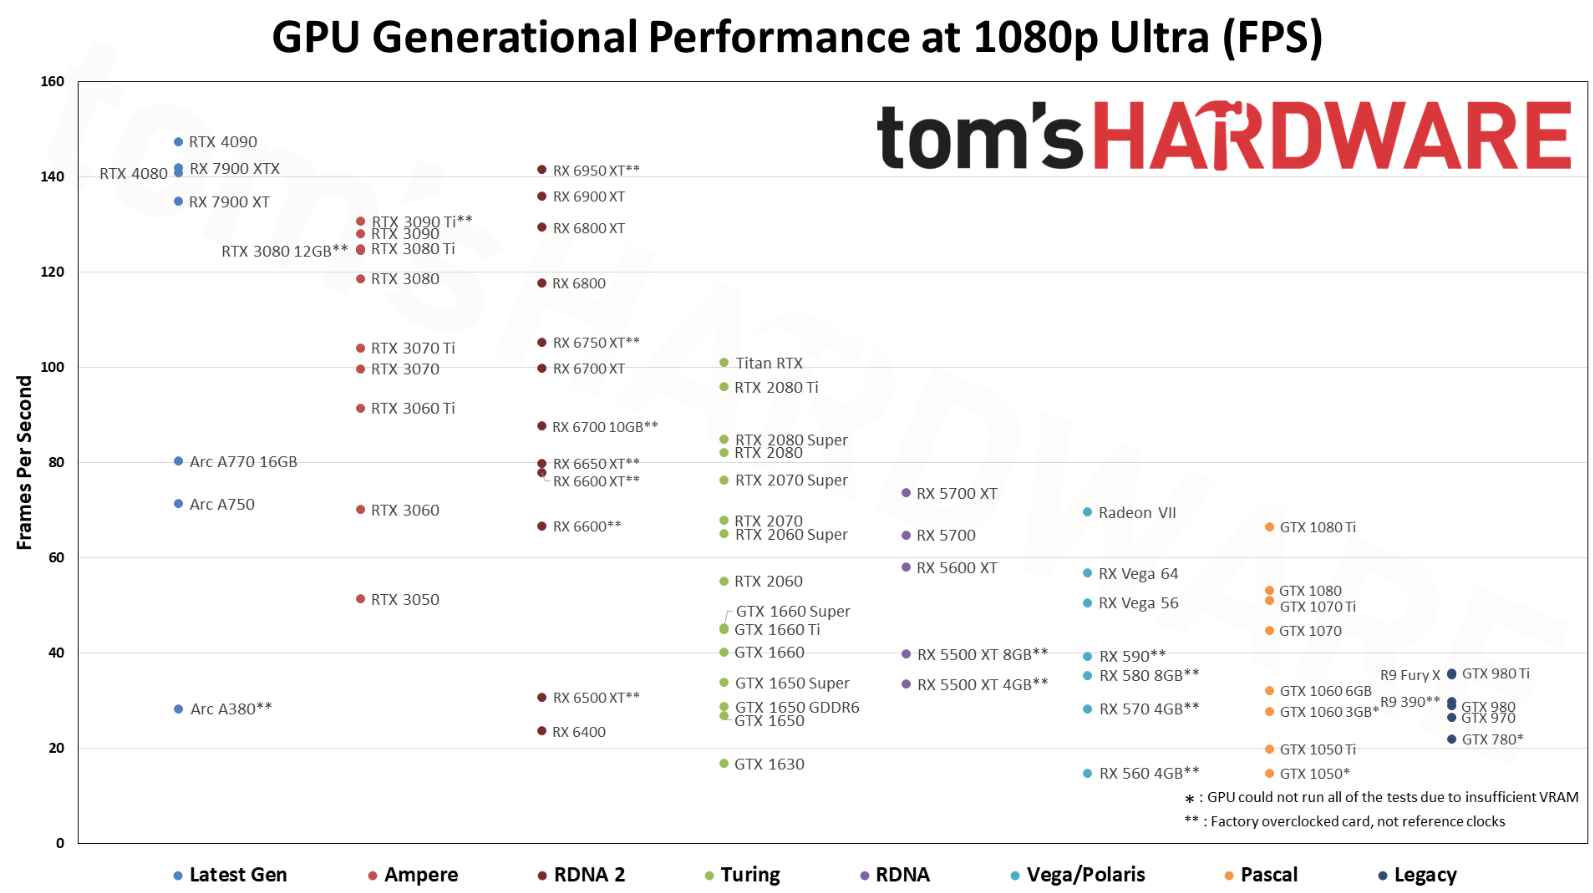
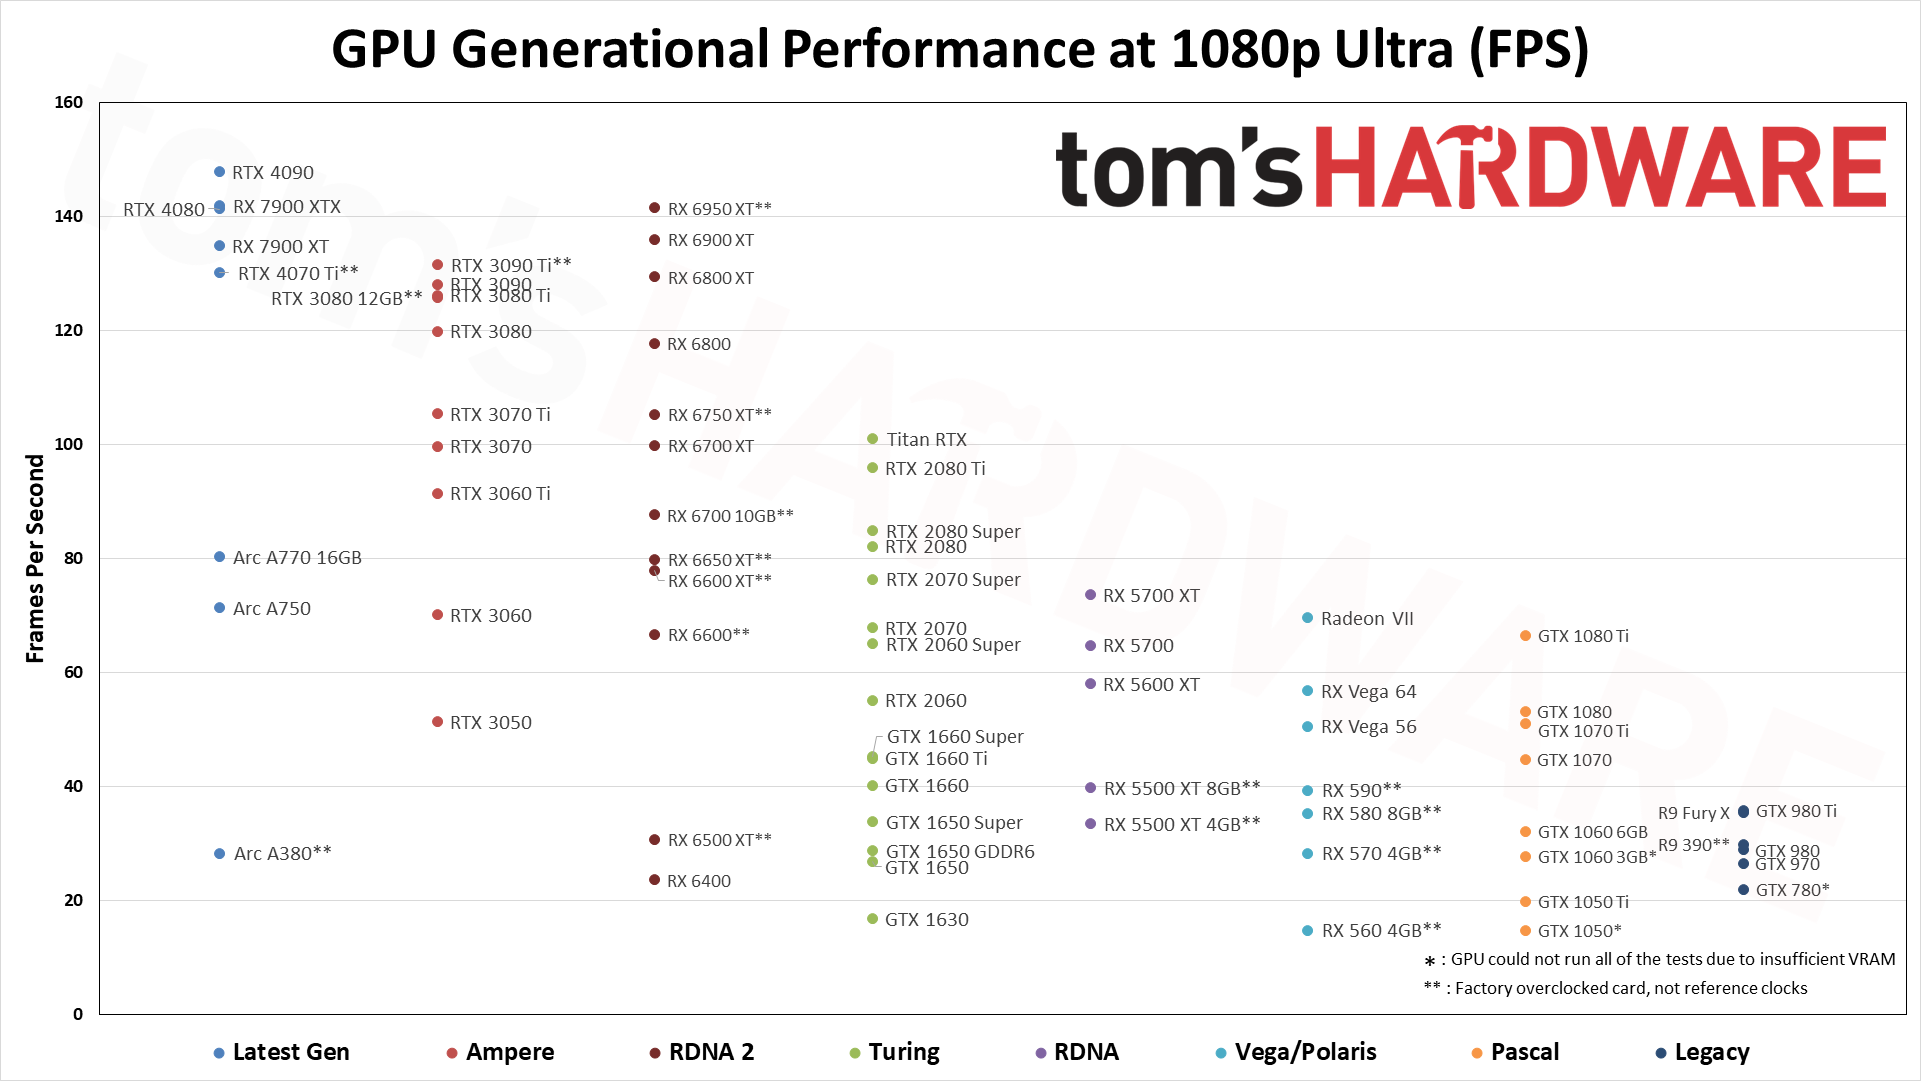
Update graphs, Add 4070Ti
Updated the graphs to the 1920x1080 source quality that Tom'sHardware provides, and added 4070Ti to GPUs.json

diff --git a/Main.py b/Main.py
@@ -4,7 +4,7 @@ from GPUs import LoadGPUs
 
 gpus = LoadGPUs()
 
-priceFont = ImageFont.truetype("segoeui.ttf", 16)
+priceFont = ImageFont.truetype("segoeui.ttf", 18)
 titleFont = ImageFont.truetype("segoeuib.ttf", 48)
 
 def GenerateGraphs(region: str, currency: str):
@@ -21,7 +21,7 @@ def GenerateGraphs(region: str, currency: str):
         region = region.upper()
         
         if gpu.Coordinates[0] == "" or gpu.Coordinates[0] is None:
-            print(f"{gpu.ModelName} | A123verage Price: {currency}{gpu.GetAveragePrice()}")
+            print(f"{gpu.ModelName} | Average Price: {currency}{gpu.GetAveragePrice()}")
             continue
         fhdImage_Draw.text((int(gpu.Coordinates[0].split(",")[0]), int(gpu.Coordinates[0].split(",")[1])), f"{currency}{round(gpu.GetAveragePrice())}", fill=(255, 0, 0), font=priceFont)
         
@@ -35,22 +35,21 @@ def GenerateGraphs(region: str, currency: str):
             continue
         fourKImage_Draw.text((int(gpu.Coordinates[2].split(",")[0]), int(gpu.Coordinates[2].split(",")[1])), f"{currency}{round(gpu.GetAveragePrice())}", fill=(255, 0, 0), font=priceFont)
         print(f"{gpu.ModelName} | Average Price: {currency}{gpu.GetAveragePrice()}")
-    
-        now = datetime.datetime.now()
-        currentDateStr = now.strftime(f"%B %d, %Y")
+    now = datetime.datetime.now()
+    currentDateStr = now.strftime(f"%B %d, %Y")
 
-        fourKImage_Draw.text((670, 250), f"{region} Ebay Pricing", fill=(255, 0, 0), font=titleFont)
-        fourKImage_Draw.text((915, 305), currentDateStr, fill=(255, 0, 0), font=priceFont)
+    fourKImage_Draw.text((870, 250), f"{region} Ebay Pricing", fill=(255, 0, 0), font=titleFont)
+    fourKImage_Draw.text((1015, 305), currentDateStr, fill=(255, 0, 0), font=priceFont)
 
-        fhdImage_Draw.text((670, 250), f"{region} Ebay Pricing", fill=(255, 0, 0), font=titleFont)
-        fhdImage_Draw.text((915, 305), currentDateStr, fill=(255, 0, 0), font=priceFont)
+    fhdImage_Draw.text((870, 250), f"{region} Ebay Pricing", fill=(255, 0, 0), font=titleFont)
+    fhdImage_Draw.text((1015, 305), currentDateStr, fill=(255, 0, 0), font=priceFont)
     
-        qhdImage_Draw.text((742, 250), f"{region} Ebay Pricing", fill=(255, 0, 0), font=titleFont)
-        qhdImage_Draw.text((987, 305), currentDateStr, fill=(255, 0, 0), font=priceFont)
+    qhdImage_Draw.text((872, 250), f"{region} Ebay Pricing", fill=(255, 0, 0), font=titleFont)
+    qhdImage_Draw.text((1017, 305), currentDateStr, fill=(255, 0, 0), font=priceFont)
     
-        fhdImage.save(f'./{region}_1080.png')
-        qhdImage.save(f'./{region}_1440.png')
-        fourKImage.save(f'./{region}_4K.png')
+    fhdImage.save(f'./{region}_1080.png')
+    qhdImage.save(f'./{region}_1440.png')
+    fourKImage.save(f'./{region}_4K.png')
 
 
 if __name__ == "__main__":

diff --git a/GPUs.py b/GPUs.py
@@ -76,7 +76,7 @@ class GPU:
             )
             
             self.Listings.append(gpuListing)
-        time.sleep(0.2)
+        time.sleep(0.3)
 
 def LoadGPUs():
     gpus = []
